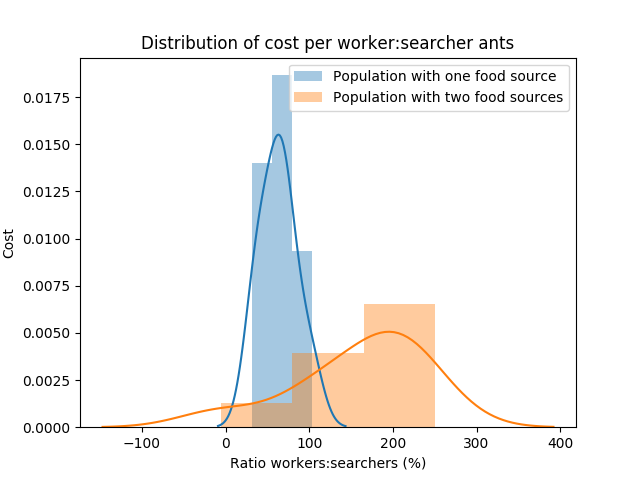
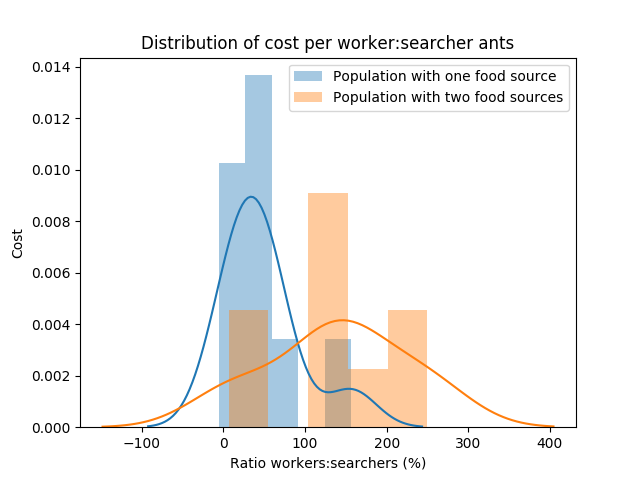
merge

diff --git a/test_grid.py b/test_grid.py
@@ -775,7 +775,7 @@ def make_data(grid, strength, fade, food_sources):
         total_board = 0
 
         # determine the amount of boards and the cost of 100 iterations
-        amount_iterations = 100
+        amount_iterations = 50
         for i in range(amount_iterations):
             # make the environment for the simulation
             world = Grid([grid, strength, fade, search, work])
@@ -859,22 +859,27 @@ while not correct_input:
         world.visualSimulation()
 
         correct_input = True
-    start = time.time()
+
     elif option == 'run simulation':
         param = []
         food_sources = [(11,18)]
         food_sources2 = [(11, 18), (2, 1)]
-        cost, boards = make_data(25, 0.1, 0.005, food_sources)
-        cost1, boards1 = make_data(25, 0.1, 0.005, food_sources2)
-        cost2, boards2 = make_data(25, 0.2, 0.005, food_sources)
+        #cost, boards = make_data(25, 0.1, 0.005, food_sources)
+        #cost1, boards1 = make_data(25, 0.1, 0.005, food_sources2)
+        #cost2, boards2 = make_data(25, 0.2, 0.005, food_sources)
         cost3, boards3 = make_data(25, 0.1, 0.01, food_sources)
-        end = time.time()
+
+        
+        # print(cost1)
+        # print(cost2)
+        print(cost3)
+        print(boards3)
+
         plot_distributions(cost, cost1, 'with one food source', 'with two food sources', 'diff_food_source.png')
         plot_distributions(cost, cost2, 'strength of 0.1', 'strength of 0.2', 'diff_pher_strength.png')
         plot_distributions(cost, cost3, 'fade of 0.005', 'fade of 0.01', ' diff_pher_fade.png')
         correct_input = True
-        print(start)
-        print(end)
+
         food_t, food_p = ttest_pvalue(cost, cost1)
         strength_t, strength_p = ttest_pvalue(cost, cost2)
         fade_t, fade_p = ttest_pvalue(cost, cost3)
@@ -883,10 +888,7 @@ while not correct_input:
         print("The t-value for strength:" + food_t + "The p-value for strength" + food_p)
         print("The t-value for fade:" + food_t + "The p-value for fade" + food_p)
 
-        print(cost)
-        print(cost1)
-        print(cost2)
-        print(cost3)
+        
     else:
         print("Incorrect input. Please enter either 'run simulation' or 'show visual'")
 
